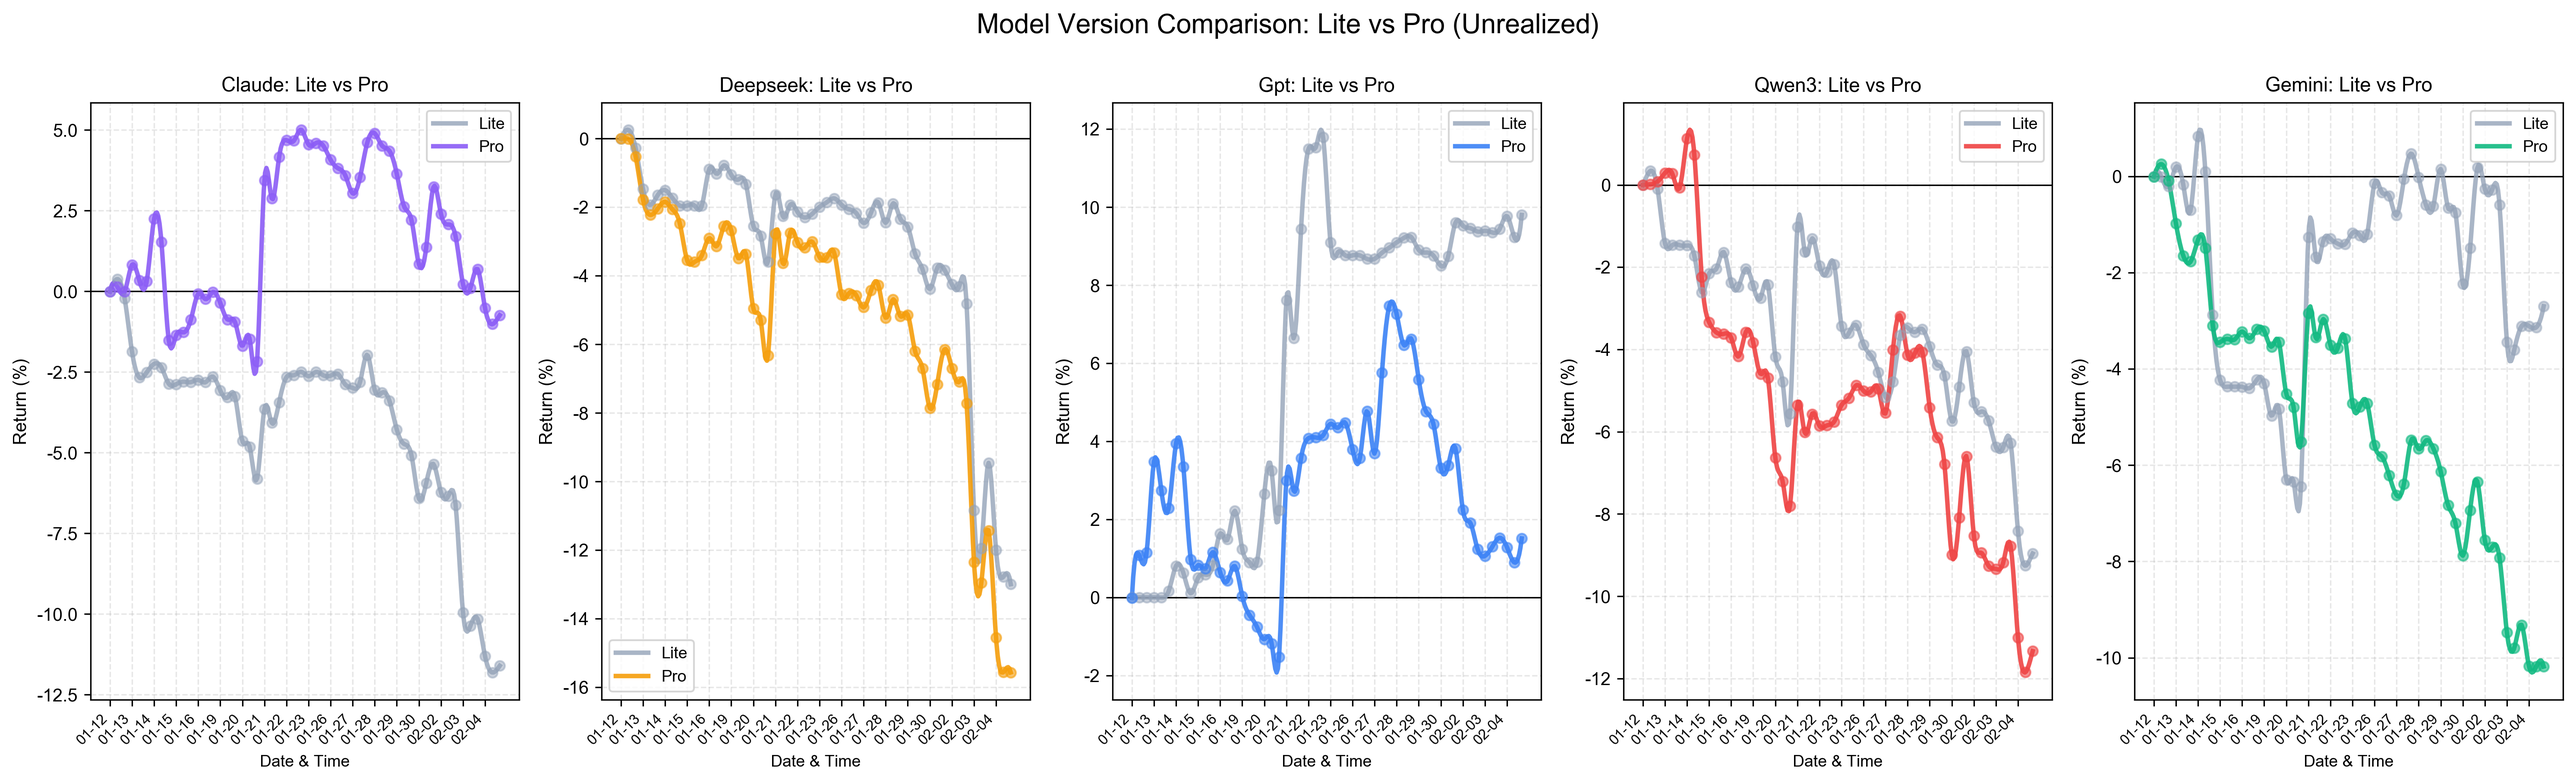
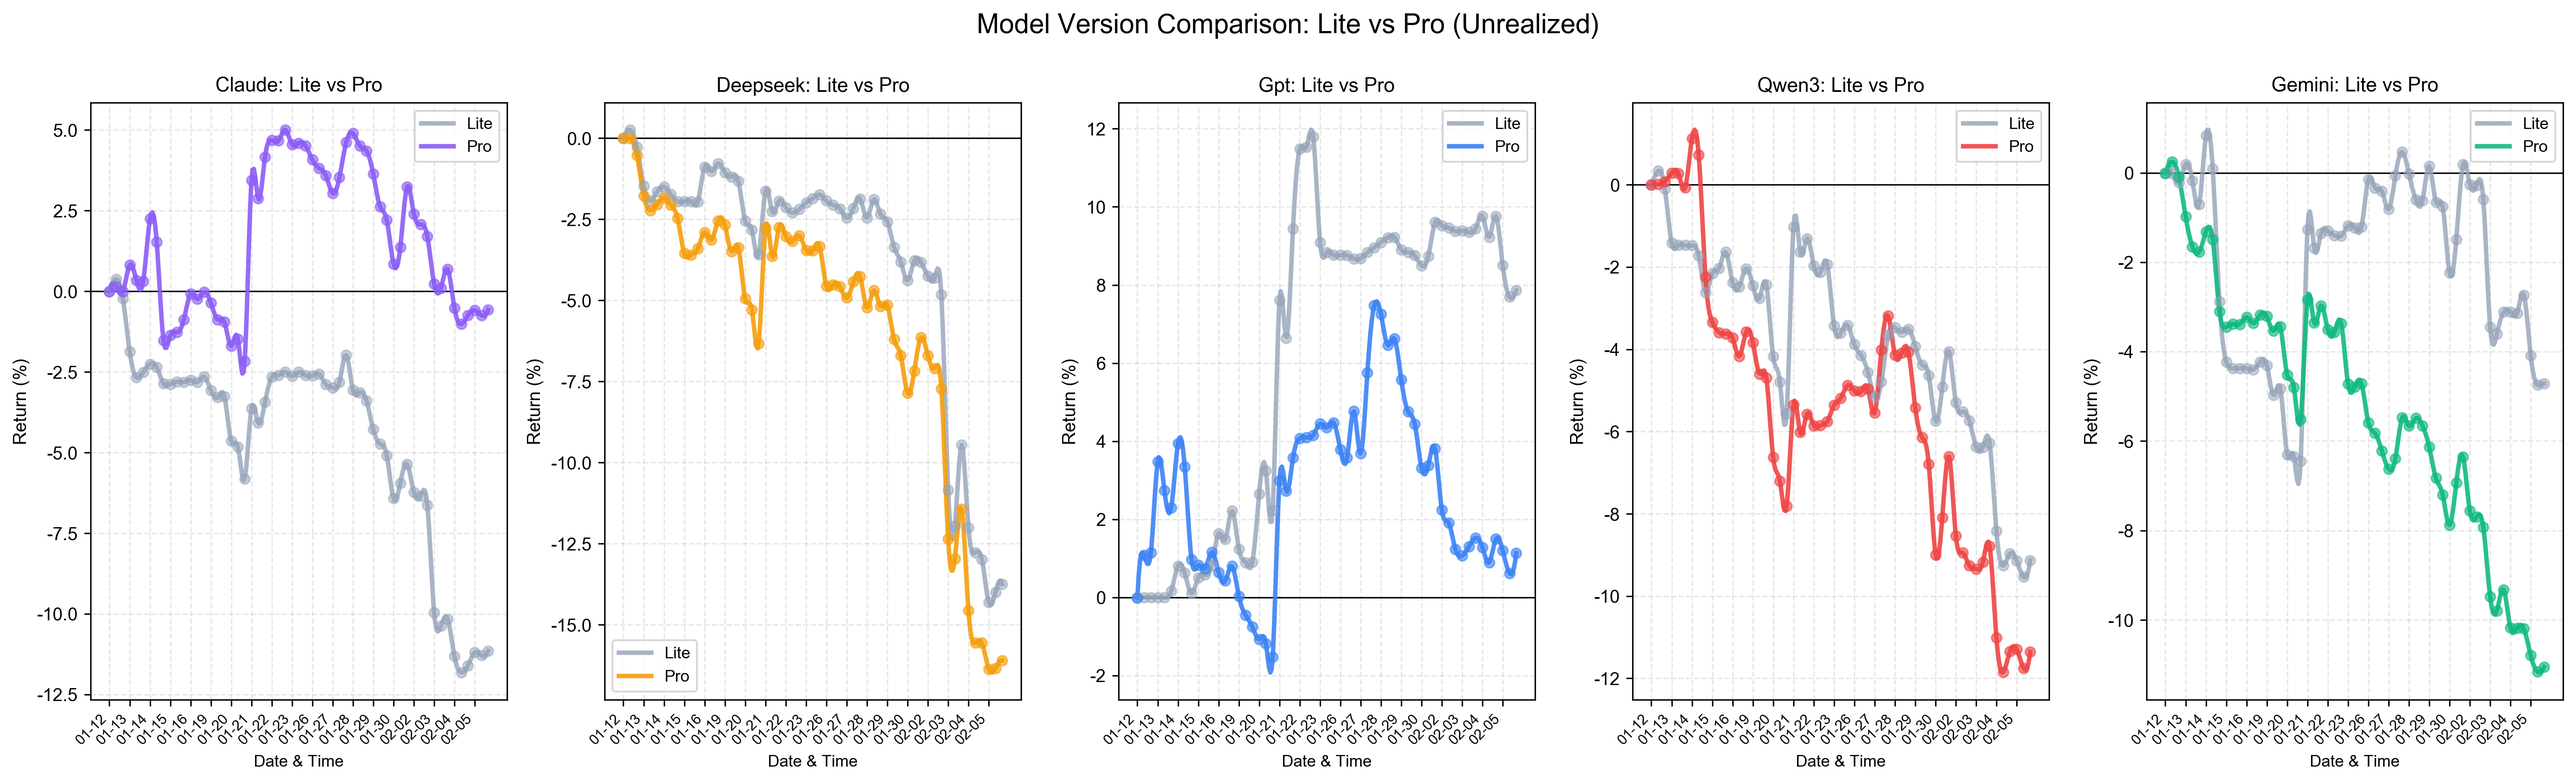
2.5

diff --git a/experiments/visualizations/performance_summary.md b/experiments/visualizations/performance_summary.md
@@ -2,8 +2,8 @@
 
 | Model | Latest Return | Max Return | Min Return | Volatility |
 |-------|---------------|------------|------------|------------|
-| Claude Haiku 4.5 | -6.31% | 0.23% | -6.91% | 1.59% |
-| DeepSeek Chat | -1.58% | 0.12% | -2.35% | 0.71% |
-| Gemini 2.5 Flash | -3.12% | 0.99% | -6.45% | 1.91% |
-| GPT-5.1 | 8.75% | 8.76% | -0.02% | 4.37% |
-| Qwen3-235b | -7.15% | -0.01% | -7.15% | 2.13% |
+| Claude Haiku 4.5 | -7.87% | 0.23% | -7.87% | 1.75% |
+| DeepSeek Chat | -1.61% | 0.12% | -2.35% | 0.69% |
+| Gemini 2.5 Flash | -4.80% | 0.99% | -6.45% | 1.94% |
+| GPT-5.1 | 8.75% | 8.76% | -0.02% | 4.38% |
+| Qwen3-235b | -7.15% | -0.01% | -7.15% | 2.25% |

diff --git a/README.md b/README.md
@@ -22,9 +22,9 @@
 
 ## 📊 Performance Comparison Results
 
-**Updated: February 4, 2026**
+**Updated: February 5, 2026**
 
-This section showcases comprehensive performance comparisons across Lite and Pro model versions, including benchmark analyses and portfolio dynamics during the trading period (January 12-February 4, 2026).
+This section showcases comprehensive performance comparisons across Lite and Pro model versions, including benchmark analyses and portfolio dynamics during the trading period (January 12-February 5, 2026).
 
 ### Dual Model Version Strategy
 
